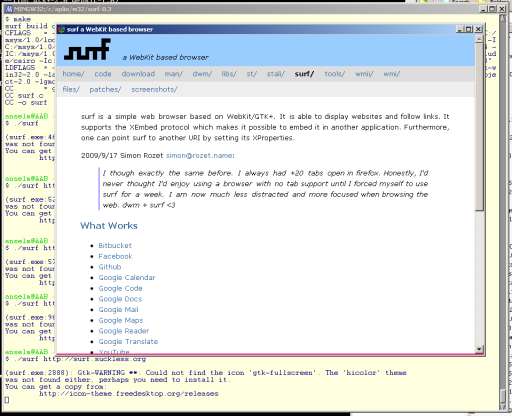
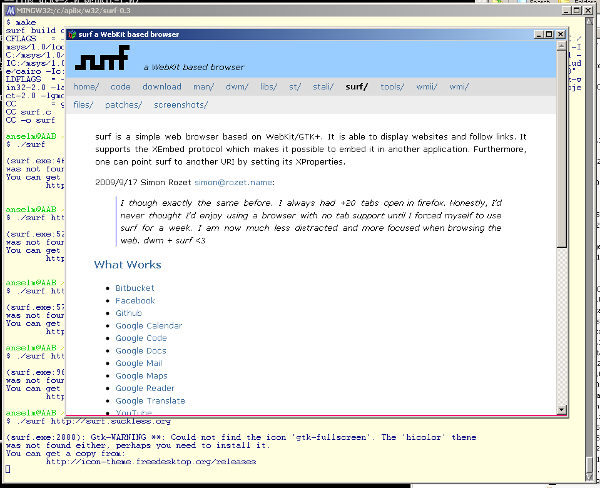
Unify picture sizes on surf.suckless.org
Bringing it all on 600px width, same as before.
Additionally, fix the markdown to make it look better.

diff --git a/surf.suckless.org/screenshots/index.md b/surf.suckless.org/screenshots/index.md
@@ -1,11 +1,15 @@
-[![Screenshot](surf+tabbed-20091028-thumb.jpg)](surf+tabbed-20091028.jpg)
+->[![Screenshot](surf+tabbed-20091028-thumb.jpg)](surf+tabbed-20091028.jpg)<-
+
 surf with [wmii](http://wmii.suckless.org) using [tabbed](http://tools.suckless.org/tabbed)
 
-[![Screenshot](20100423_surf_win-thumb.png)](20100423_surf_win.png)
+->[![Screenshot](20100423_surf_win-thumb.png)](20100423_surf_win.png)<-
+
 surf on win32 with a webkitgtk build targetting Windows underneath.
 
-[![Screenshot](surf-20091028-thumb.jpg)](surf-20091028.jpg)
+->[![Screenshot](surf-20091028-thumb.jpg)](surf-20091028.jpg)<-
+
 surf with [dwm](http://dwm.suckless.org)
 
-[![Screenshot](surf-kiosk-20130312-thumb.png)](surf-kiosk-20130312.png)
+->[![Screenshot](surf-kiosk-20130312-thumb.png)](surf-kiosk-20130312.png)<-
+
 surf in kiosk mode, used in an online exam taking system
